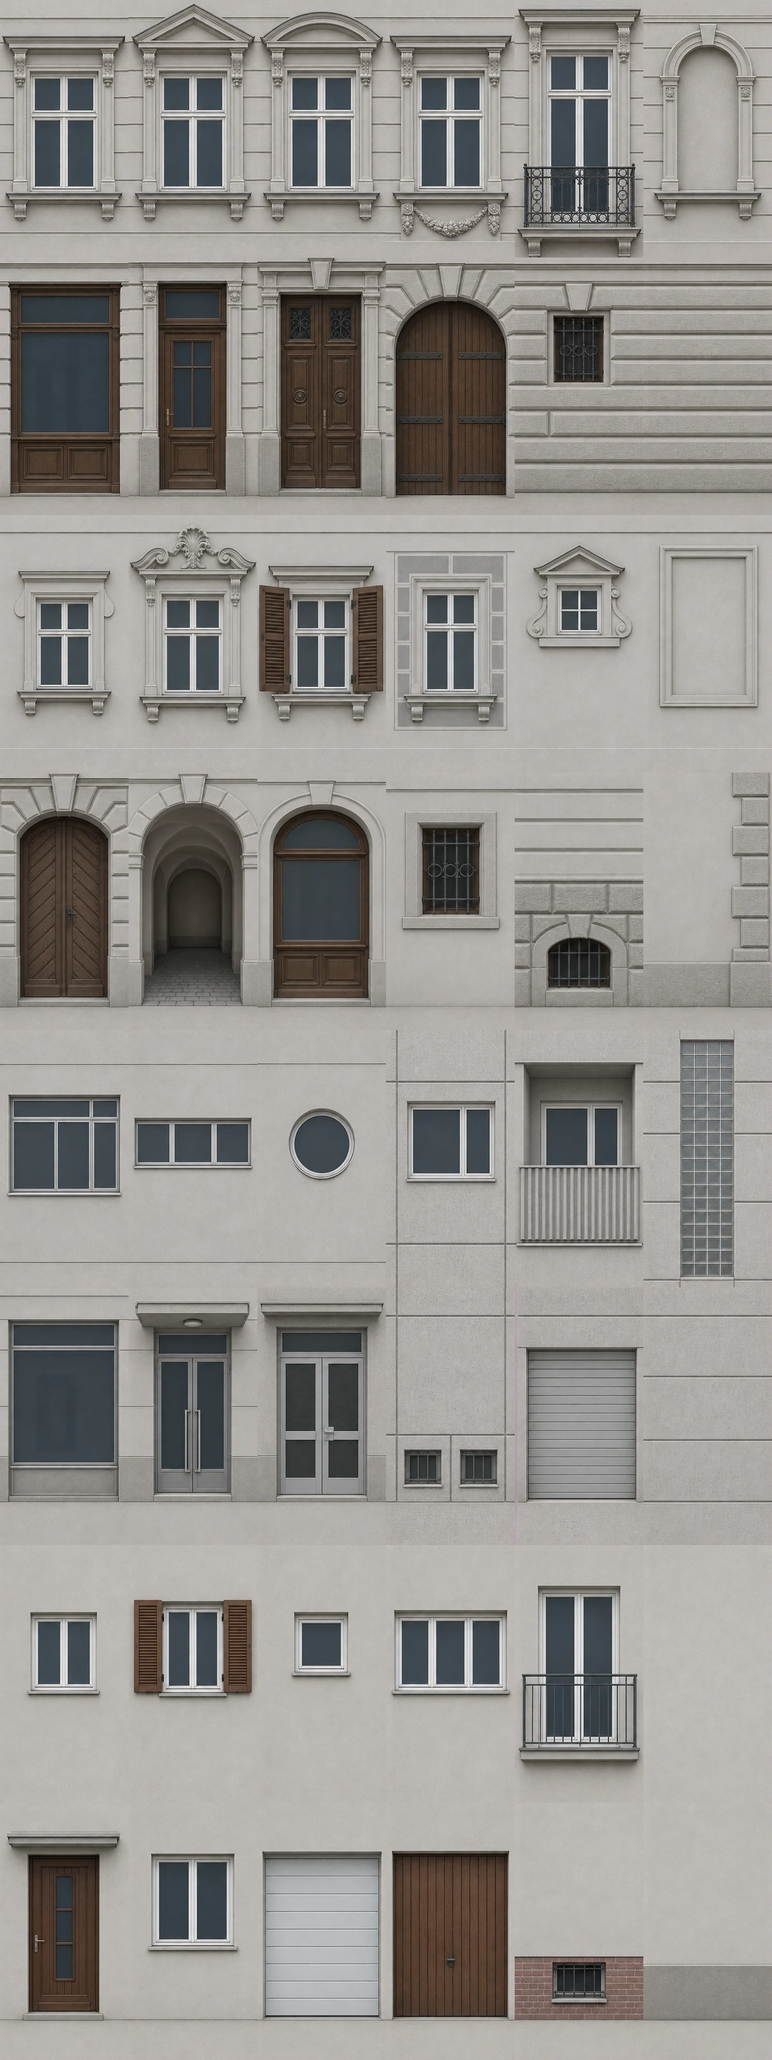
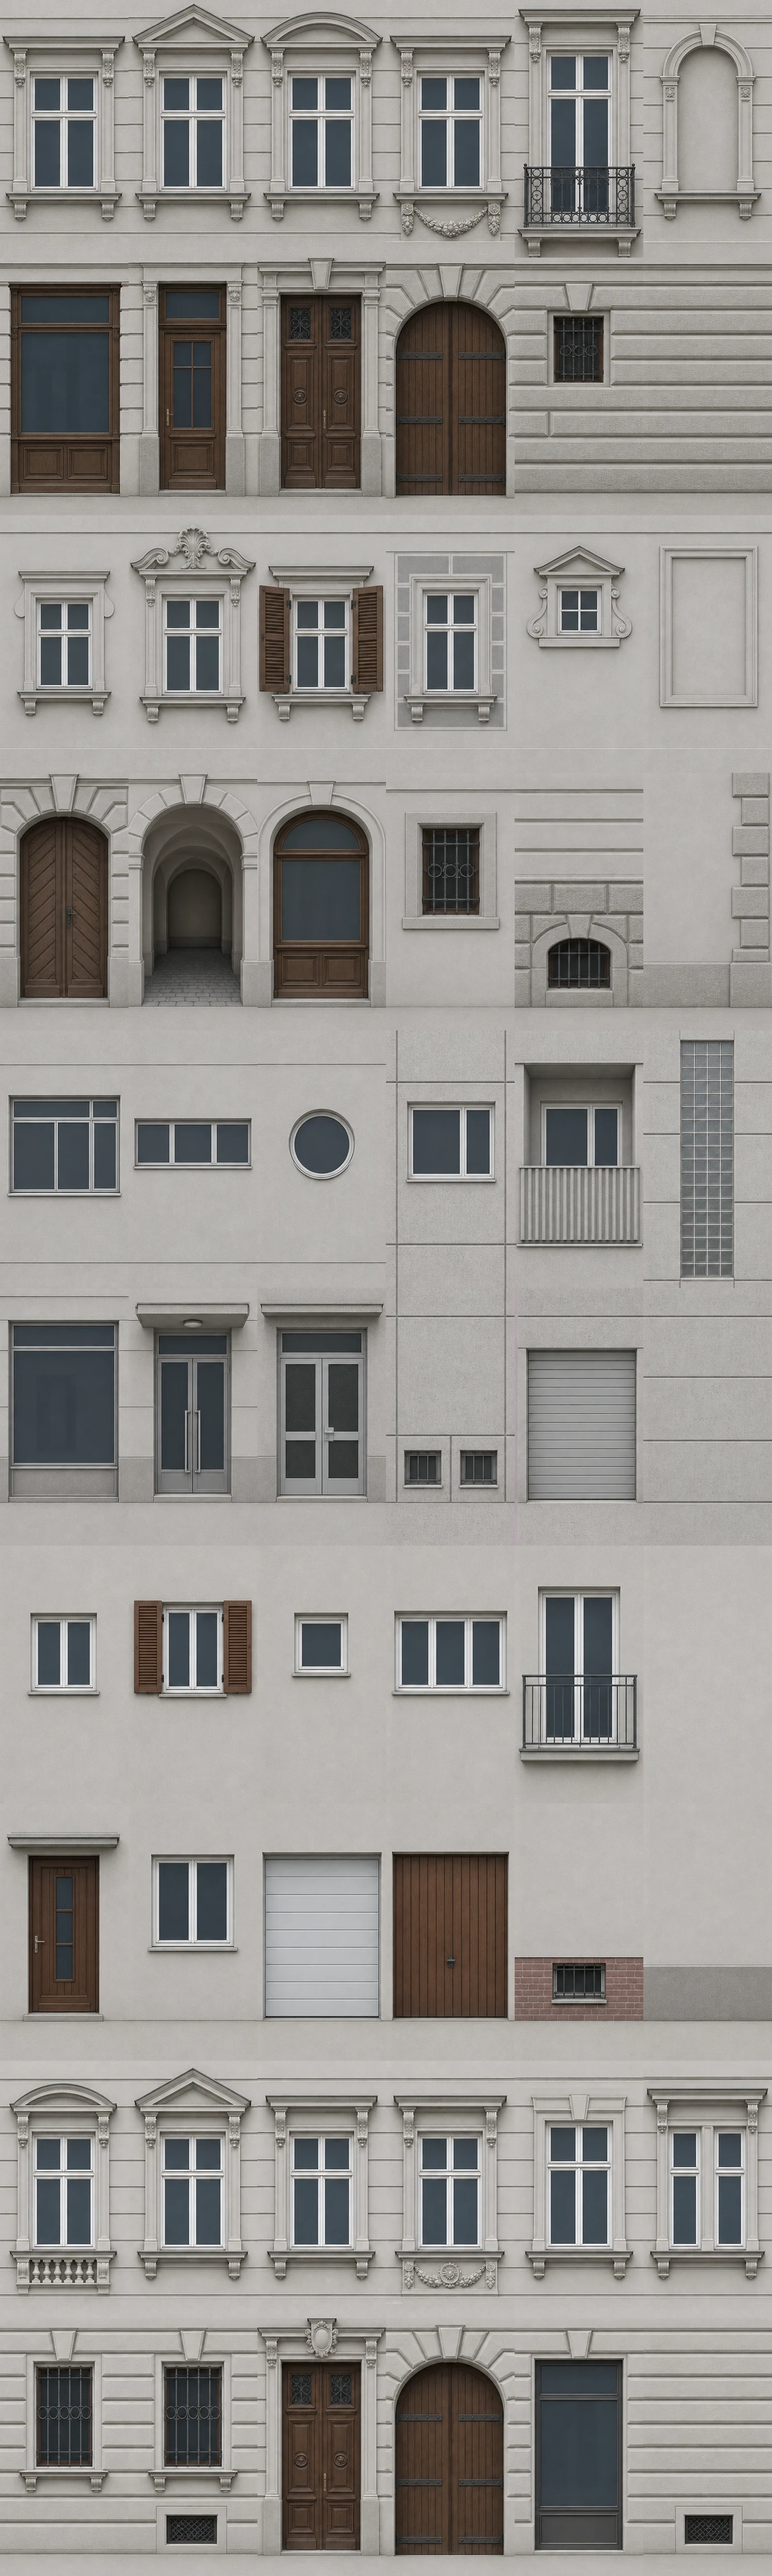
Facades: a fifth sheet of tenement windows and portals
Tenements now take their upper-floor windows from a new sheet drawn after a
neo-Renaissance house in Mělnická: segmental and triangular pediments, a
baluster parapet, a garland panel under the sill, keystone and plain frames.
The windows are narrower in their cells, with more plaster round them, so the
walls read as plaster with windows rather than a grid of glass. The ground
floor gets banded plaster with barred windows and a basement vent, a panelled
portal with a cartouche and an arched gateway, alongside the first sheet's shop
window and entrance door and a new metal-framed shopfront.

The image model drew this sheet's gutters barely pink, so build_atlas.py
falls back to a paler gutter colour when the usual one doesn't find a 6 x 2
grid; the first four sheets cut exactly as before.

diff --git a/src/facades.ts b/src/facades.ts
@@ -6,7 +6,7 @@ import proj4 from 'proj4';
 // into public/facades.webp, one sheet under another. The shader (shading.ts) picks a
 // module for every bay and storey of a wall, by the wall's style.
 export const CELL = [256, 512];
-export const SHEETS = 4;
+export const SHEETS = 5;
 
 // Styles: 0 tenement, 1 baroque, 2 functionalist, 3 panel housing, 4 family house.
 // A party wall (štítová zeď, see facadeCoords) has its style plus BLANK: plaster, no windows.
@@ -249,6 +249,8 @@ export function paintWalls(p: Float32Array, col: Float32Array, facade: Float32Ar
 // For every bay and storey, which module of the wall's style: upper floors, then the
 // ground floor's doors and the rest of the ground floor, as layers of the atlas
 // (sheet × 12 + row × 6 + column). A few bays of each ground floor get a door.
+// Tenements take their windows, portals and barred ground-floor windows from the fifth
+// sheet (neo-Renaissance, after a house in Mělnická), with the first sheet's shops.
 // Window bays are as wide as in Prague's houses (F_BAY, about 3 m between window
 // axes in a tenement): the module takes F_MOD of that in the middle, and its plaster
 // edge (with the cornices and bands) is drawn on across the piers between. Panel
@@ -257,9 +259,9 @@ export function paintWalls(p: Float32Array, col: Float32Array, facade: Float32Ar
 export const FACADE_GLSL = /* glsl */ `
 uniform mediump sampler2DArray uFacades;
 uniform float uFacadeOn;
-const int F_UP[30] = int[30](0, 1, 2, 3, 4, 0,   12, 13, 15, 12, 13, 15,   24, 25, 24, 25, 26, 24,   27, 28, 27, 27, 28, 27,   36, 37, 38, 39, 40, 36);
-const int F_DOOR[15] = int[15](7, 8, 9,   18, 19, 20,   31, 31, 34,   32, 32, 34,   42, 44, 45);
-const int F_WALL[20] = int[20](6, 6, 10, 11,   21, 22, 23, 20,   30, 30, 30, 35,   33, 35, 33, 35,   43, 46, 47, 43);
+const int F_UP[30] = int[30](48, 49, 50, 51, 52, 53,   12, 13, 15, 12, 13, 15,   24, 25, 24, 25, 26, 24,   27, 28, 27, 27, 28, 27,   36, 37, 38, 39, 40, 36);
+const int F_DOOR[15] = int[15](56, 57, 8,   18, 19, 20,   31, 31, 34,   32, 32, 34,   42, 44, 45);
+const int F_WALL[20] = int[20](54, 55, 58, 6,   21, 22, 23, 20,   30, 30, 30, 35,   33, 35, 33, 35,   43, 46, 47, 43);
 const float F_BAY[5] = float[5](2.9, 3.1, 2.6, 2.4, 2.8);
 const float F_MOD[5] = float[5](1.9, 1.9, 2., 2.4, 1.9);
 float fHash(float a, float b) { return fract(sin(a * 127.1 + b * 311.7) * 43758.5453); }

diff --git a/src/webgpu/buildings.ts b/src/webgpu/buildings.ts
@@ -26,9 +26,9 @@ const atlas = texture(standIn).onRenderUpdate(() => { atlas.value = FACADE_ATLAS
 
 // The layer tables of FACADE_GLSL (const int arrays).
 const ints = (v: number[]): N => array(v.map((x) => int(x))).toVar();
-const F_UP = ints([0, 1, 2, 3, 4, 0, 12, 13, 15, 12, 13, 15, 24, 25, 24, 25, 26, 24, 27, 28, 27, 27, 28, 27, 36, 37, 38, 39, 40, 36]);
-const F_DOOR = ints([7, 8, 9, 18, 19, 20, 31, 31, 34, 32, 32, 34, 42, 44, 45]);
-const F_WALL = ints([6, 6, 10, 11, 21, 22, 23, 20, 30, 30, 30, 35, 33, 35, 33, 35, 43, 46, 47, 43]);
+const F_UP = ints([48, 49, 50, 51, 52, 53, 12, 13, 15, 12, 13, 15, 24, 25, 24, 25, 26, 24, 27, 28, 27, 27, 28, 27, 36, 37, 38, 39, 40, 36]);
+const F_DOOR = ints([56, 57, 8, 18, 19, 20, 31, 31, 34, 32, 32, 34, 42, 44, 45]);
+const F_WALL = ints([54, 55, 58, 6, 21, 22, 23, 20, 30, 30, 30, 35, 33, 35, 33, 35, 43, 46, 47, 43]);
 const floats = (v: number[]): N => array(v.map((x) => float(x))).toVar();
 const F_BAY = floats([2.9, 3.1, 2.6, 2.4, 2.8]);
 const F_MOD = floats([1.9, 1.9, 2, 2.4, 1.9]);

diff --git a/assets/facades/build_atlas.py b/assets/facades/build_atlas.py
@@ -37,10 +37,14 @@ def cells(path):
     im = Image.open(path).convert("RGB")
     a = np.asarray(im).astype(int)
     r, g, b = a[..., 0], a[..., 1], a[..., 2]
-    gutter = (r - g > 12) & (b - g > 8)  # anywhere from dusky pink to magenta
-    cols = [c for c in runs(~(gutter.mean(axis=0) > 0.6)) if c[1] - c[0] > a.shape[1] * 0.05]
-    rows = [c for c in runs(~(gutter.mean(axis=1) > 0.6)) if c[1] - c[0] > a.shape[0] * 0.1]
-    if (len(cols), len(rows)) != (COLS, ROWS):
+    # Anywhere from dusky pink to magenta; failing that, the palest pink (sheet 5's
+    # gutters came out barely tinted, next to neutral grey plaster).
+    for gutter in ((r - g > 12) & (b - g > 8), (r - g > 7) & (b - g > 1) & (r - b > 2)):
+        cols = [c for c in runs(~(gutter.mean(axis=0) > 0.6)) if c[1] - c[0] > a.shape[1] * 0.05]
+        rows = [c for c in runs(~(gutter.mean(axis=1) > 0.6)) if c[1] - c[0] > a.shape[0] * 0.1]
+        if (len(cols), len(rows)) == (COLS, ROWS):
+            break
+    else:
         raise SystemExit(f"{path.name}: found {len(cols)} x {len(rows)} cells, not {COLS} x {ROWS}")
     for y0, y1 in rows:
         for x0, x1 in cols:
